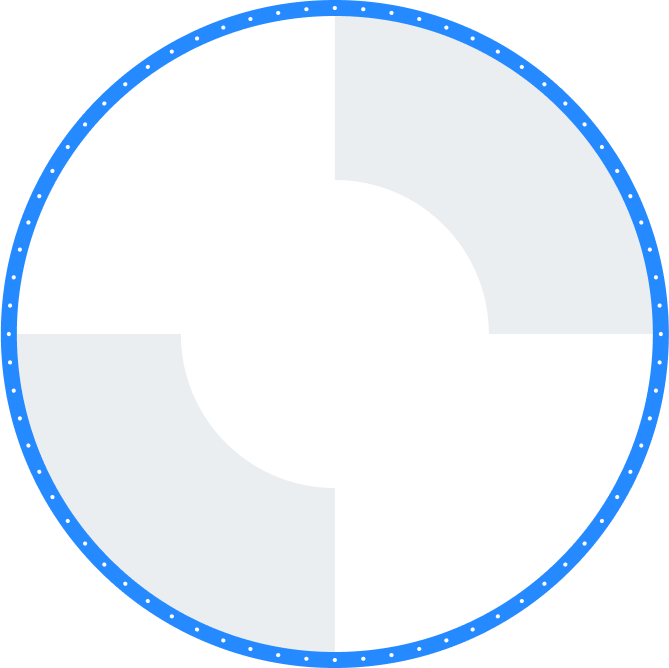
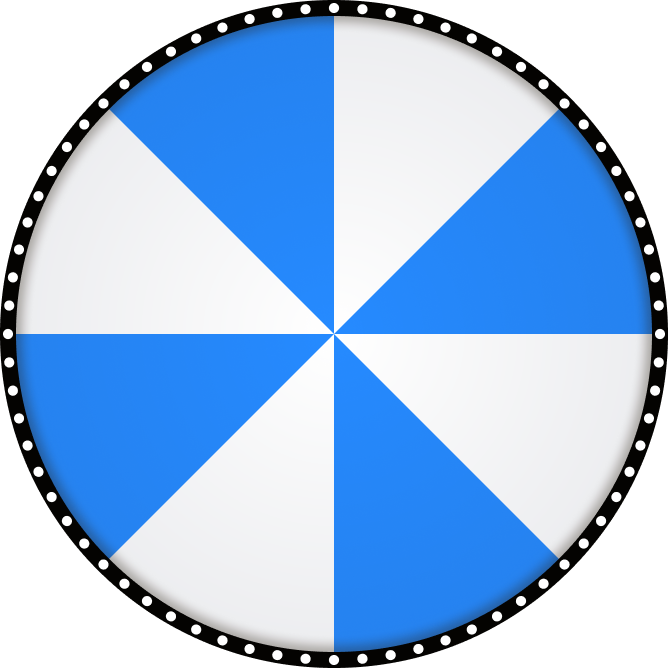
roulette update

diff --git a/css/main.scss b/css/main.scss
@@ -1318,17 +1318,21 @@ $mainBtnHeight : 94px;
                 padding-bottom: 16%;
                 box-sizing: border-box;
                 .tit {
-                    font-size: 24px;
+                    font-size: 16px;
                     font-weight: 900;
-                    color: var(--newBlue);
                 }
                 .desc {
                     font-size: 16px;
+                    font-weight: 900;
                 }
-                &:nth-child(1){transform: rotate(45deg) translateY(-50%);}
-                &:nth-child(2){transform: rotate(135deg) translateY(-50%);}
-                &:nth-child(3){transform: rotate(225deg) translateY(-50%);}
-                &:nth-child(4){transform: rotate(315deg) translateY(-50%);}
+                &:nth-child(1){transform: rotate(22.5deg) translateY(-50%);}
+                &:nth-child(2){transform: rotate(67.5deg) translateY(-50%);}
+                &:nth-child(3){transform: rotate(112.5deg) translateY(-50%);}
+                &:nth-child(4){transform: rotate(157.5deg) translateY(-50%);}
+                &:nth-child(5){transform: rotate(-157.5deg) translateY(-50%);}
+                &:nth-child(6){transform: rotate(-112.5deg) translateY(-50%);}
+                &:nth-child(7){transform: rotate(-67.5deg) translateY(-50%);}
+                &:nth-child(8){transform: rotate(-22.5deg) translateY(-50%);}
             }
         }
         .object {
@@ -1342,6 +1346,7 @@ $mainBtnHeight : 94px;
             aspect-ratio: 1/1;
             border-radius: 50%;
             background-color: #252626;
+            background: url(../img/ic_rouletteBtn.png) center/cover no-repeat;
             filter: drop-shadow(0px 4px 4px rgba(0, 0, 0, 0.25));
             display: flex;
             flex-direction: column;
@@ -1351,15 +1356,30 @@ $mainBtnHeight : 94px;
             box-sizing: border-box;
             cursor: pointer;
             z-index: 1;
+            animation-name: rouletteBtn;
+            animation-duration: 0.5s;
+            animation-timing-function: cubic-bezier(1, 0.03, 0, 0.99);
+            animation-iteration-count: infinite;
+            @keyframes rouletteBtn {
+                0% {
+                    background: url(../img/ic_rouletteBtn.png) center/cover no-repeat;
+                }
+                50% {
+                    background: url(../img/ic_rouletteBtn2.png) center/cover no-repeat;
+                }
+            }
             .tit {
-                font-size: 24px;
+                font-size: 31px;
                 font-weight: 900;
-                color: #fff;
+                line-height: 1;
+                color: #252626;
+                margin-top: 8px;
             }
             .desc {
-                font-size: 16px;
-                font-weight: 600;
-                color: #FEEA82;
+                font-size: 18px;
+                font-weight: 800;
+                line-height: 1;
+                color: #252626;
             }
         }
         .rouletteArr {

diff --git a/css/main.css b/css/main.css
@@ -1214,24 +1214,36 @@ button {
   box-sizing: border-box;
 }
 .roulette .rouletteWrap .rouletteCircle .eventItem .tit {
-  font-size: 24px;
+  font-size: 16px;
   font-weight: 900;
-  color: var(--newBlue);
 }
 .roulette .rouletteWrap .rouletteCircle .eventItem .desc {
   font-size: 16px;
+  font-weight: 900;
 }
 .roulette .rouletteWrap .rouletteCircle .eventItem:nth-child(1) {
-  transform: rotate(45deg) translateY(-50%);
+  transform: rotate(22.5deg) translateY(-50%);
 }
 .roulette .rouletteWrap .rouletteCircle .eventItem:nth-child(2) {
-  transform: rotate(135deg) translateY(-50%);
+  transform: rotate(67.5deg) translateY(-50%);
 }
 .roulette .rouletteWrap .rouletteCircle .eventItem:nth-child(3) {
-  transform: rotate(225deg) translateY(-50%);
+  transform: rotate(112.5deg) translateY(-50%);
 }
 .roulette .rouletteWrap .rouletteCircle .eventItem:nth-child(4) {
-  transform: rotate(315deg) translateY(-50%);
+  transform: rotate(157.5deg) translateY(-50%);
+}
+.roulette .rouletteWrap .rouletteCircle .eventItem:nth-child(5) {
+  transform: rotate(-157.5deg) translateY(-50%);
+}
+.roulette .rouletteWrap .rouletteCircle .eventItem:nth-child(6) {
+  transform: rotate(-112.5deg) translateY(-50%);
+}
+.roulette .rouletteWrap .rouletteCircle .eventItem:nth-child(7) {
+  transform: rotate(-67.5deg) translateY(-50%);
+}
+.roulette .rouletteWrap .rouletteCircle .eventItem:nth-child(8) {
+  transform: rotate(-22.5deg) translateY(-50%);
 }
 .roulette .rouletteWrap .object {
   position: absolute;
@@ -1244,6 +1256,7 @@ button {
   aspect-ratio: 1/1;
   border-radius: 50%;
   background-color: #252626;
+  background: url(../img/ic_rouletteBtn.png) center/cover no-repeat;
   filter: drop-shadow(0px 4px 4px rgba(0, 0, 0, 0.25));
   display: flex;
   flex-direction: column;
@@ -1253,16 +1266,31 @@ button {
   box-sizing: border-box;
   cursor: pointer;
   z-index: 1;
+  animation-name: rouletteBtn;
+  animation-duration: 0.5s;
+  animation-timing-function: cubic-bezier(1, 0.03, 0, 0.99);
+  animation-iteration-count: infinite;
+}
+@keyframes rouletteBtn {
+  0% {
+    background: url(../img/ic_rouletteBtn.png) center/cover no-repeat;
+  }
+  50% {
+    background: url(../img/ic_rouletteBtn2.png) center/cover no-repeat;
+  }
 }
 .roulette .rouletteWrap .rouletteTrigger .tit {
-  font-size: 24px;
+  font-size: 31px;
   font-weight: 900;
-  color: #fff;
+  line-height: 1;
+  color: #252626;
+  margin-top: 8px;
 }
 .roulette .rouletteWrap .rouletteTrigger .desc {
-  font-size: 16px;
-  font-weight: 600;
-  color: #FEEA82;
+  font-size: 18px;
+  font-weight: 800;
+  line-height: 1;
+  color: #252626;
 }
 .roulette .rouletteWrap .rouletteArr {
   top: -5%;

diff --git a/roulette.html b/roulette.html
@@ -36,26 +36,36 @@
                 </div>
 
                 <div class="rouletteTrigger object">
-                    <div class="tit">START</div>
-                    <div class="desc">룰렛돌리기</div>
+                    <!-- <div class="tit">START</div>
+                    <div class="desc">룰렛돌리기</div> -->
                 </div>
 
                 <div class="rouletteCircle" id="rouletteCircle">
                     <div class="eventItem">
-                        <div class="tit">1개월 무료</div>
-                        <div class="desc">헬스케어 이용권</div>
+                        <div class="tit">룰렛쿠폰</div>
+                        <div class="desc">2개</div>
                     </div>
                     <div class="eventItem">
-                        <div class="tit">1,000p</div>
-                        <div class="desc">포인트</div>
+                        <div class="tit">1000p</div>
                     </div>
                     <div class="eventItem">
-                        <div class="tit">3개</div>
-                        <div class="desc">룰렛쿠폰</div>
+                        <div class="tit">50P</div>
                     </div>
                     <div class="eventItem">
-                        <div class="tit">1,000p</div>
-                        <div class="desc">포인트</div>
+                        <div class="tit">500P</div>
+                    </div>
+                    <div class="eventItem">
+                        <div class="tit">룰렛쿠폰</div>
+                        <div class="desc">3개</div>
+                    </div>
+                    <div class="eventItem">
+                        <div class="tit">10P</div>
+                    </div>
+                    <div class="eventItem">
+                        <div class="tit">100P</div>
+                    </div>
+                    <div class="eventItem">
+                        <div class="tit">200P</div>
                     </div>
                 </div>
 
